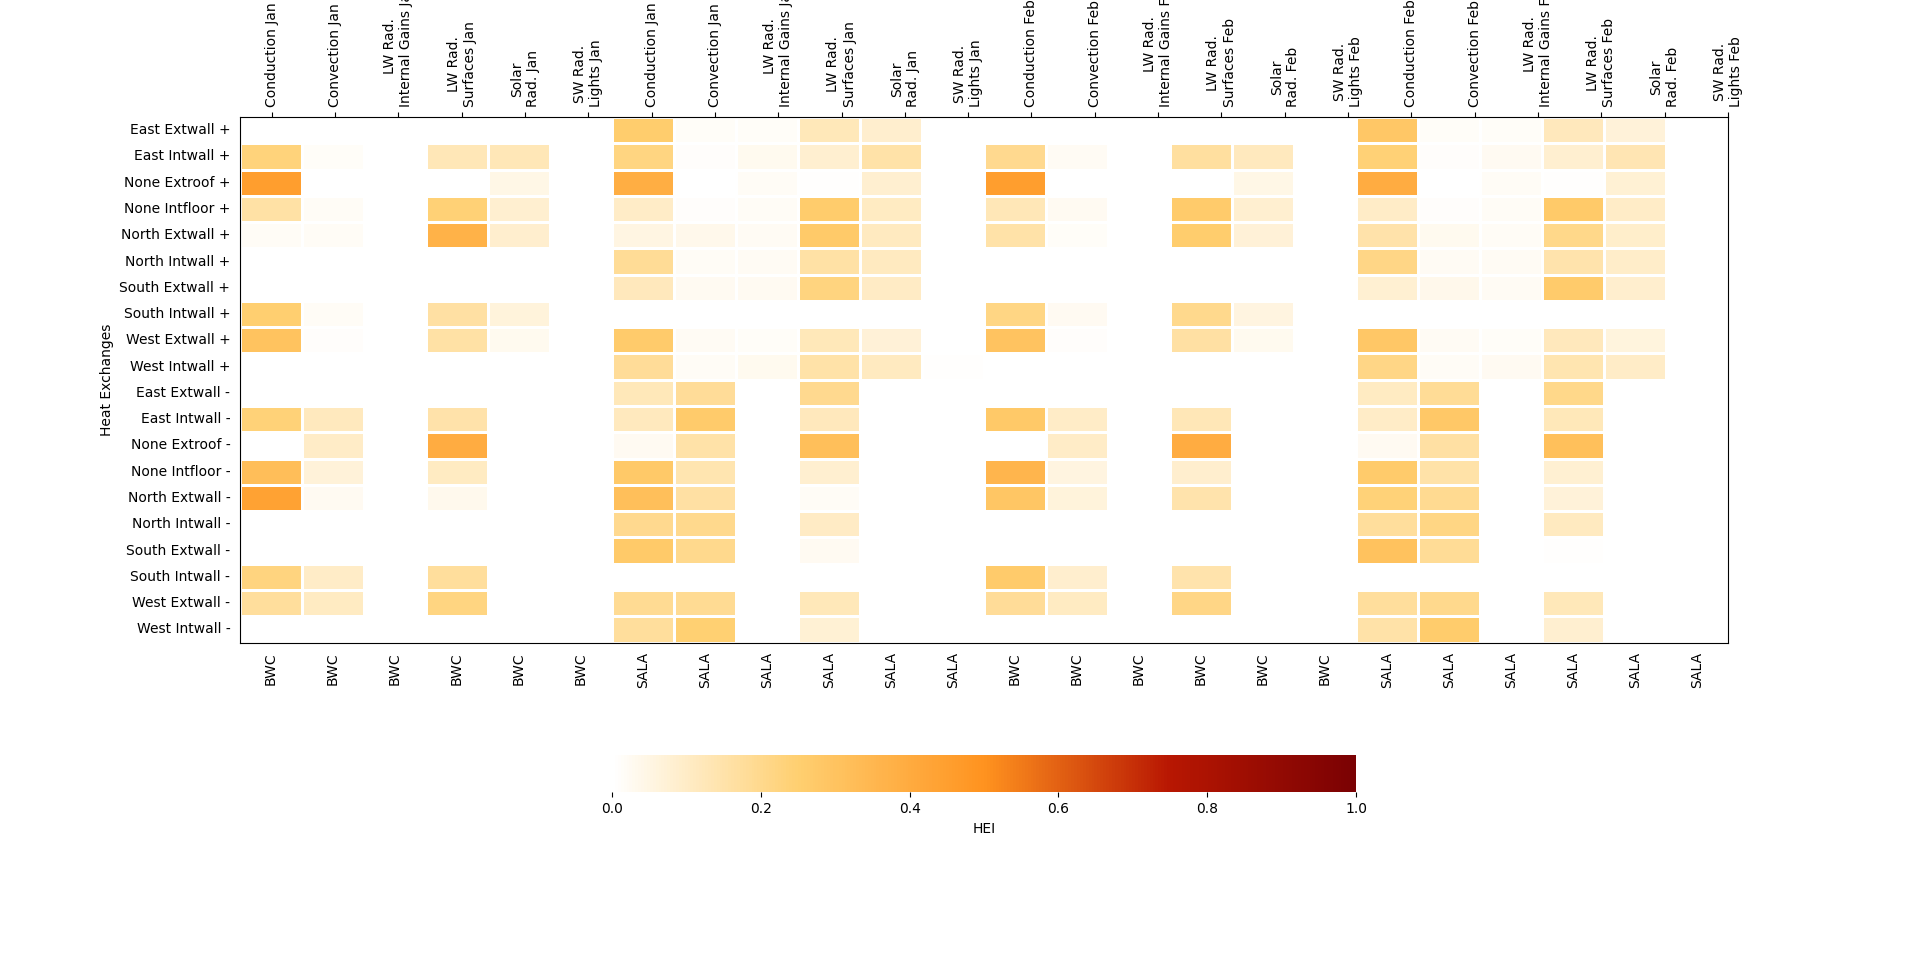
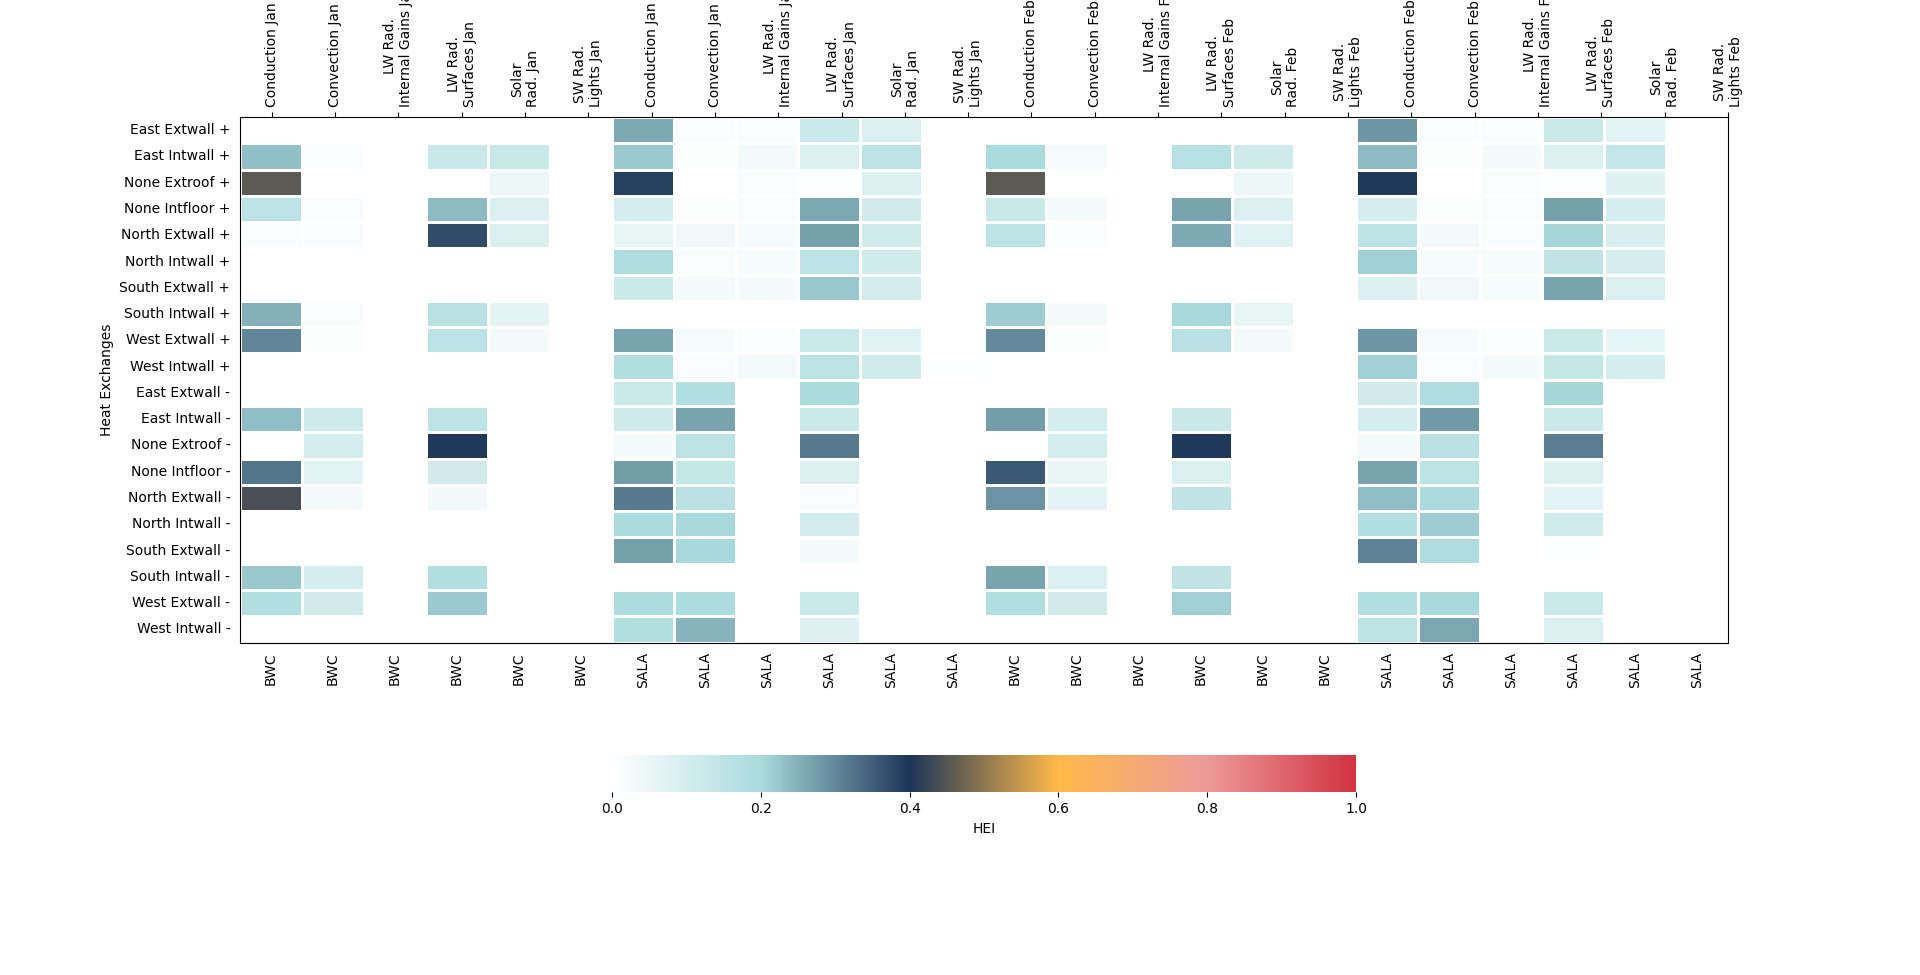
update imagens de surface + novo esquema de cores surf

diff --git a/plotting_space/plotter.py b/plotting_space/plotter.py
@@ -46,7 +46,7 @@ class HeatMap:
             self.tight = tight
 
     def plot_heatmap(self, month_plot: bool = False) -> sns.heatmap:
-        colors = ["#FFFFFF", "#496DDB", "#00CC66", "#FFFF00", "#F98016", "#F2002B"] if self.target_type == 'convection' else ["#FFFFFF","#FFCF70","#FF931F","#B81702","#7A0103"]
+        colors = ["#FFFFFF", "#496DDB", "#00CC66", "#FFFF00", "#F98016", "#F2002B"] if self.target_type == 'convection' else ["#FFFFFF","#A8DADC","#1D3557","#FFBA49","#EC9A9A","#D13440"]
         cmap = LinearSegmentedColormap.from_list('Custom_cmap', colors)
         heatmap = sns.heatmap(data=self.df, vmax=1, vmin=0, cmap=cmap, linewidths=1, xticklabels=True, yticklabels=True, cbar_kws = self.cbar_kws)
         heatmap.set_xlabel('')
